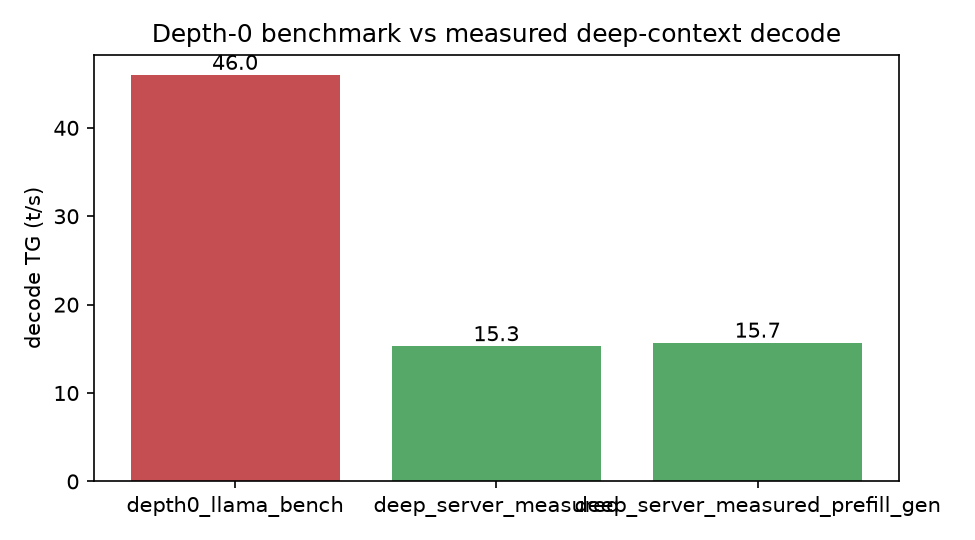
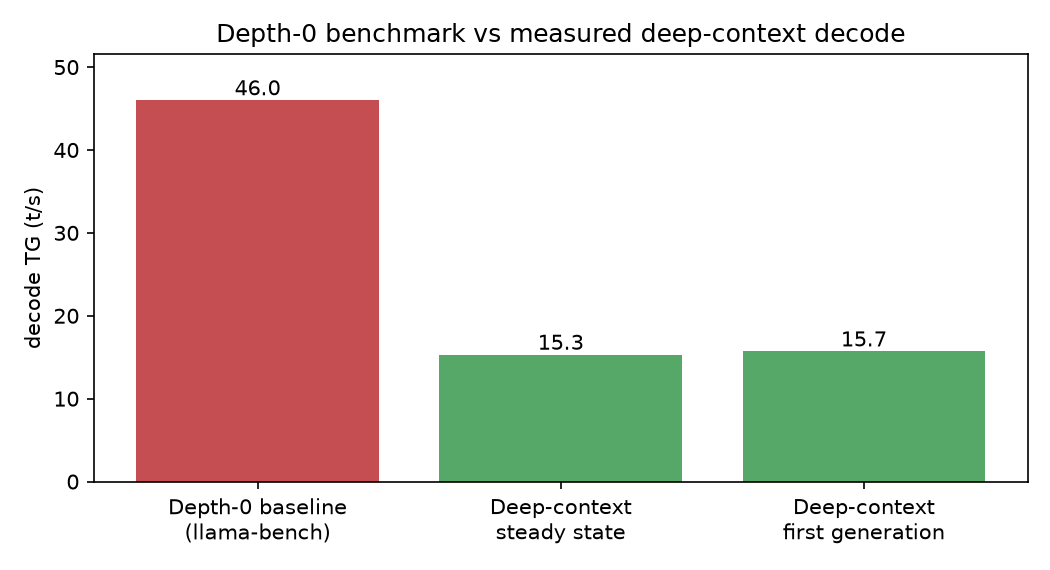
docs: tighten the depth-0 comparison and its figure
Define llama-bench depth and record the path and offload configuration for each row, so the ~3x gap reads as an observed comparison rather than a controlled context-length estimate. Add the 15.7 t/s first-generation row so the table, figure, and caption agree, and give the figure readable labels. Reword '64k prompt' to '64k-context configuration' and restore a generic small-request caveat without the unrelated 9B measurements.

diff --git a/scripts/make_figures.py b/scripts/make_figures.py
@@ -151,12 +151,18 @@ def fig_moe_cache():
 
 def fig_deep_vs_depth0():
     rows = load("deep_vs_depth0.csv")
-    labels = [r["mode"] for r in rows]
+    labels = {
+        "depth0_llama_bench": "Depth-0 baseline\n(llama-bench)",
+        "deep_server_measured": "Deep-context\nsteady state",
+        "deep_server_measured_prefill_gen": "Deep-context\nfirst generation",
+    }
+    names = [labels.get(r["mode"], r["mode"]) for r in rows]
     tg = [f(r["tg_t_s"]) for r in rows]
-    fig, ax = plt.subplots(figsize=(6.5, 3.6))
-    ax.bar(labels, tg, color=["#c44e52", "#55a868", "#55a868"])
+    fig, ax = plt.subplots(figsize=(7.0, 3.8))
+    ax.bar(names, tg, color=["#c44e52", "#55a868", "#55a868"])
     for i, v in enumerate(tg):
         ax.annotate(f"{v:.1f}", (i, v), ha="center", va="bottom")
+    ax.set_ylim(0, max(tg) * 1.12)
     ax.set_ylabel("decode TG (t/s)")
     ax.set_title("Depth-0 benchmark vs measured deep-context decode")
     fig.tight_layout(); fig.savefig(FIG / "fig_deep_vs_depth0.png", dpi=150)

diff --git a/tests/test_markdown.py b/tests/test_markdown.py
@@ -45,7 +45,8 @@ class MarkdownRenderingTests(unittest.TestCase):
 
     def test_conceptual_blocks_are_fenced_text(self):
         blocks = [
-            "Large prompt\n    ↓\nPrefill\n    ↓\nLong-context state\n    ↓\nDecode",
+            "Large prompt\n    ↓\nPrefill: process prompt, populate KV cache\n"
+            "    ↓\nDecode: generate with populated KV cache",
             "off → on → on → off",
             "--spec-type draft-mtp\n--spec-draft-n-max 2",
             "turbo4\nturbo3",

diff --git a/ARTICLE.md b/ARTICLE.md
@@ -8,7 +8,7 @@ This study examines long-context inference for a **29B Mixture-of-Experts** mode
 
 In the primary **64k-context** configuration, using approximately **57.9k-token prompts**, the MTP-on arm raised measured deep-context decode from **14.79** to **38.56 tokens/s** (*+160.7%*) under the documented shared serving configuration, with an estimated difference of **+23.77 tokens/s** (*unpaired 95% CI: [19.19, 28.34] tokens/s; n = 10 per arm*). The arms used identical shared serving settings; their speculative-decoding configuration differed (`--spec-type none` vs `--spec-type draft-mtp --spec-draft-n-max 2`). Prefill was **645.1 tokens/s** vs **637.4 tokens/s** (*-1.19%*), below the study's approximately **4%** operational threshold, which does not establish statistical equivalence. The MTP arm used an additional **+993 MiB of peak VRAM** and about **+1.7 GiB of peak host RAM**; both are measured increases in per-run peak memory.
 
-Additional experiments on a related **28B MoE** model (*Qwen 28B REAP*) show a different pattern: an MoE expert cache raised short-context prefill from **308.5** to **775.7 tokens/s** while deep decode stayed around **14–15 tokens/s**. A separate depth-0 benchmark reported **46.0 tokens/s** versus **15.3 tokens/s** after a full **64k prompt**. The **46.0 tokens/s** and **15.3 tokens/s** are not directly comparable; the **~3x** is a measured illustration on a related model, not a controlled ratio.
+Additional experiments on a related **28B MoE** model (*Qwen 28B REAP*) show a different pattern: an MoE expert cache raised short-context prefill from **308.5** to **775.7 tokens/s** while deep decode stayed around **14–15 tokens/s**. A separate depth-0 benchmark reported **46.0 tokens/s** versus **15.3 tokens/s** after a long prompt in a **64k-context configuration**. The **46.0 tokens/s** and **15.3 tokens/s** are not directly comparable; the **~3x** is a measured illustration on a related model, not a controlled ratio.
 
 These measurements characterize **one model**, **one host**, **one runtime**, **one context length** and **one prompt family**.
 
@@ -54,7 +54,7 @@ Each section states which track it uses. The primary configuration is summarized
 
 In the primary 64k experiment, the MTP-on arm reached **38.56 t/s** deep-context decode against **14.79 t/s** for MTP off (**+160.7%**) under the documented shared serving configuration. The estimated difference was **+23.77 t/s** (*unpaired 95% CI [19.19, 28.34] t/s; 10 retained runs per arm*). The documented arms used identical shared serving settings and differed in their speculative-decoding configuration; per-run flags were not captured in the traces, so this matching is documented rather than trace-verifiable. Prefill was **637.4 vs 645.1 t/s** (**−1.19%**), below the study's approximately 4% operational threshold. That threshold is used to avoid over-interpreting small differences; it does not establish statistical equivalence. The MTP arm used **+993 MiB of peak VRAM** (*11,588 of 12,288 MiB*) and approximately **+1.7 GiB of host RAM**.
 
-On the supporting 28B track, enabling the expert cache at 1k context with `ncmoe=20` raised prefill from **308.5 to 775.7 t/s** (*about 2.5×; the `soft` mode reached 313.2 t/s*), while deep decode stayed around **14–15 t/s** across the tested cache and `ncmoe` configurations. A depth-0 benchmark measured **46.0 t/s**, against **15.3 t/s** after a full 64k prompt. Those two rows come from different sibling configurations, so the roughly 3× gap illustrates context sensitivity rather than a controlled estimate of the context-length effect.
+On the supporting 28B track, enabling the expert cache at 1k context with `ncmoe=20` raised prefill from **308.5 to 775.7 t/s** (*about 2.5×; the `soft` mode reached 313.2 t/s*), while deep decode stayed around **14–15 t/s** across the tested cache and `ncmoe` configurations. A depth-0 benchmark measured **46.0 t/s**, against **15.3 t/s** after a long prompt in a 64k-context configuration. Those two rows come from different sibling configurations, so the roughly 3× gap illustrates context sensitivity rather than a controlled estimate of the context-length effect.
 
 On the live profile, `ncmoe=17` failed during initialization both with the cache on (*while allocating 128 MiB of KV cache*) and with it off (*while allocating 208 MiB of compute buffers*), whereas `ncmoe=20` loaded. That is an infeasibility result for the tested configuration, not a throughput comparison, and it does not locate the boundary between 17 and 20. Separately, 19 of 33 coding runs (*11 tasks × 3 attempts*) passed hidden tests (*57.6%; [Appendix A](#a-coding-evaluation)*), a bounded task-quality check rather than a throughput result.
 
@@ -69,47 +69,44 @@ Raw traces, data provenance, and supporting evidence for individual claims are d
 
 ## II. Depth-0 throughput and the long-context gap
 
-`llama-bench` is useful for measuring baseline generation throughput, but its token-generation measurement starts at depth 0: there is no large conversation history in front of the model.
+`llama-bench` is useful for measuring baseline generation throughput, but its token-generation measurement starts at depth 0. In `llama-bench`, depth is the number of prompt tokens used to prefill the KV cache before generation is timed; depth 0 means no prompt tokens are prefilled. That measurement answers a specific question:
 
-That is a useful measurement when the question is:
-
-> How quickly can this model generate when there is no existing context?
+> How quickly can this model generate with no preceding prompt tokens?
 
 It is a different question from:
 
-> How quickly can this serving configuration generate after processing a 64k-token request?
+> How quickly can this serving configuration generate after a long prompt has populated the KV cache?
 
 In the available 28B benchmark-sibling comparison:
 
-| Measurement | Decode throughput |
-|---|---:|
-| `llama-bench` token generation, depth 0 | **<!-- claim:depth0_tg -->46.0<!-- /claim --> t/s** |
-| After a full 64k prompt | **<!-- claim:deep_tg -->15.3<!-- /claim --> t/s** |
+| Measurement | Path and configuration | Decode throughput |
+|---|---|---:|
+| Depth-0 baseline | `llama-bench`, `ncmoe=18`, `--moe-cache on` | **<!-- claim:depth0_tg -->46.0<!-- /claim --> t/s** |
+| Deep-context, steady state | server request, `ncmoe=17`, `--moe-cache on` | **<!-- claim:deep_tg -->15.3<!-- /claim --> t/s** |
+| Deep-context, first generation | server request, `ncmoe=17`, `--moe-cache on` | 15.7 t/s |
+
+The two server rows come from a long prompt in a 64k-context configuration. The 15.7 t/s row is the first generation after prefill; the 15.3 t/s row is steady-state decode with the prompt cached.
 
 ![Figure 2 — Depth-0 vs deep-context decode](figures/fig_deep_vs_depth0.png)
 
 **Figure 2 — Depth-0 vs deep-context decode.**
-*Data: [deep_vs_depth0.csv](results/deep_vs_depth0.csv) · source rows: [data/sources-bench.json](data/sources-bench.json) §06/§07 · supporting track: 28B benchmark sibling. The depth-0 row is `llama-bench`; the deep row is a server request. The two rows do not carry a matched VRAM reading.*
+*Data: [deep_vs_depth0.csv](results/deep_vs_depth0.csv) · source rows: [data/sources-bench.json](data/sources-bench.json) §06/§07 · supporting track: 28B benchmark sibling (`Qwen3.6-28B-REAP20-A3B-Q4_K_M`, RTX 3060 12 GB). The three bars are the table rows. The rows do not carry matched VRAM readings.*
 
-In this comparison, the depth-0 result is roughly **3× higher** than the observed deep-context decode rate.
+The depth-0 row differs from the deep-context rows in tool and offload setting as well as context state. In this comparison, the depth-0 result is about **3.0×** the steady-state deep-context decode rate (46.0 ÷ 15.3). That illustrates the size of the gap in these configurations; it is not an estimate of the context-length effect alone.
 
 That does not make depth-0 benchmarking useless. It means that it should not be used as a proxy for the full request path when the workload routinely carries a large context. For an agentic workload, the relevant sequence is closer to:
 
 ```text
 Large prompt
     ↓
-Prefill
+Prefill: process prompt, populate KV cache
     ↓
-Long-context state
-    ↓
-Decode
+Decode: generate with populated KV cache
 ```
 
-A benchmark that measures only the final step starting from an empty context leaves out much of the workload.
+A benchmark that times only the last step from an empty cache omits prompt processing and measures decode in a different runtime state. (`llama-bench` also excludes tokenization and sampling, so its figure is not an end-to-end request rate.)
 
-There is a similar issue with very small prompts. A 25-token request in this setup carries approximately 62 ms of fixed per-request overhead, so its apparent tokens-per-second number is dominated by overhead rather than by the behavior of a long-context prefill.
-
-For this reason, the measurements below use the actual server request path wherever possible.
+For these reasons, the measurements below use the actual server request path wherever possible.
 
 ## III. Measurement protocol
 
@@ -422,7 +419,7 @@ The main result of this study is not that one particular optimization is univers
 
 On the tested RTX 3060 configuration:
 
-- depth-0 generation reached **46.0 t/s** on the 28B benchmark sibling, while decode after a full 64k prompt was approximately **15.3 t/s**;
+- depth-0 generation reached **46.0 t/s** on the 28B benchmark sibling, while decode after a long prompt in a 64k-context configuration was approximately **15.3 t/s**;
 - the expert cache increased sibling prefill from **308.5 to 775.7 t/s** at 1k context;
 - the MTP-on arm increased live 29B deep-context decode from **14.79 to 38.56 t/s** at a 64k context setting;
 - the MTP arm cost approximately **993 MiB of additional peak VRAM** and **1.7 GiB of host RAM**;

diff --git a/README.md b/README.md
@@ -21,7 +21,7 @@ from committed traces.
 | # | Finding | Configuration | Cost / caveat | Evidence |
 |---|---|---|---|---|
 | 1 | **MTP more than doubles deep-context decode at 64k in the documented shared configuration: 14.79 → 38.56 t/s (+160.7%)**, while prefill changes by −1.19%, below the ~4% operational threshold. | Live 29B MTP profile, 10 runs/arm, ~57.9k prompt; identical shared serving settings, different speculative-decoding configuration | **+993 MiB peak VRAM**, ~1.7 GiB host RAM; not REPRODUCIBLE (private runner) | **MEASURED + REGENERATED** — [mtp_ab.csv](results/mtp_ab.csv) |
-| 2 | **Depth-0 `llama-bench` measures 46.0 t/s, but only ~15 t/s once a full 64k prompt is in front of it (~3× in this comparison).** Depth-0 is a valid baseline for model-only generation; it does not capture the long-context request path. | Both rows are 28B bench-sibling measurements; the deep row is a server request, not the live 29B profile | Different configs within the sibling; this is a measured gap, not a universal ratio | **MEASURED (sibling)** — [deep_vs_depth0.csv](results/deep_vs_depth0.csv) |
+| 2 | **Depth-0 `llama-bench` measures 46.0 t/s, but only ~15 t/s once a long prompt in a 64k-context configuration is in front of it (~3× in this comparison).** Depth-0 is a valid baseline for model-only generation; it does not capture the long-context request path. | Both rows are 28B bench-sibling measurements; the deep row is a server request, not the live 29B profile | Different configs within the sibling; this is a measured gap, not a universal ratio | **MEASURED (sibling)** — [deep_vs_depth0.csv](results/deep_vs_depth0.csv) |
 | 3 | **The MoE expert cache is the prefill lever: 308 → 776 t/s (~2.5×) in the short-context comparison.** At 64k, cache-off prefill collapses below 73 t/s, versus ~677–712 t/s with the cache on. | 28B bench sibling, 1k comparison; prompt/sampling not recorded; 64k rows are sibling measurements | Spends spare VRAM; deep decode stays ~14–15 t/s; 64k no-cache is a timeout upper bound | **MEASURED (sibling) + REGENERATED** — [moe_cache.csv](results/moe_cache.csv) |
 
 ![Three measured levers](figures/fig_overview.png)

diff --git a/EVIDENCE.md b/EVIDENCE.md
@@ -43,7 +43,7 @@ beside every number in `ARTICLE.md`.
 |---|---|---|---|---|---|
 | MTP decode 14.79 → 38.56 t/s | `mtp_tg_off`, `mtp_tg_on`, `mtp_delta`, `mtp_delta_pct` | Primary 29B | `data/raw/mtp/` | `results/mtp_ab.csv`, `results/mtp_comparison.csv` | MEASURED, REGENERATED; not independently reproducible |
 | MTP per-run distribution and block means | `mtp_ci_half`, `mtp_accept` | Primary 29B | `data/raw/mtp/` | `results/mtp_runs.csv`, `results/mtp_blocks.csv` | MEASURED, REGENERATED; not independently reproducible |
-| Depth-0 46.0 t/s vs deep 15.3 t/s | `depth0_tg`, `deep_tg` | Supporting 28B | `data/sources-bench.json` §06/§07 | `results/deep_vs_depth0.csv` | MEASURED; two configurations |
+| Depth-0 46.0 t/s vs deep 15.3 t/s | `depth0_tg`, `deep_tg` | Supporting 28B | `data/sources-bench.json` §06/§07 | `results/deep_vs_depth0.csv` | MEASURED; two configurations (`llama-bench` `ncmoe=18` vs server `ncmoe=17`) |
 | Expert cache 308.5 → 775.7 t/s at 1k | `cache_off`, `cache_on` | Supporting 28B | `data/sources-bench.json` §04 | `results/moe_cache.csv` | MEASURED, REGENERATED from a non-self-contained ledger |
 | 64k prefill with/without cache | — | Supporting 28B | `data/sources-bench.json` §06/§07 | `results/prefill_vs_ctx.csv`, `results/moe_cache.csv` | MEASURED, partially ESTIMATED (timeout upper bound) |
 | `ncmoe=17` OOM at 64k | — | Primary 29B | `data/raw/p4/probe-results.txt` | `results/ncmoe_probe_29b.csv` | MEASURED |

diff --git a/METHODOLOGY.md b/METHODOLOGY.md
@@ -116,7 +116,8 @@ Rejected framings (recorded so they are not repeated):
   the full request path. In this study's comparison it overstated deep-context
   decode by ~3×; benchmark the actual path at representative context lengths
   when that is the question.
-- **Small-prompt smoke tests as "baseline".** A 25-token request is ~97% fixed
-  per-request overhead (~62 ms); its t/s says nothing about prefill.
+- **Small-prompt smoke tests as "baseline".** Very short requests can be
+  dominated by per-request overhead; their aggregate tokens/s is not a proxy
+  for long-context prefill or decode.
 - **A single-point measurement.** Every quantitative claim here has ≥5 kept
   runs, interleaved arms, and a reported uncertainty.
